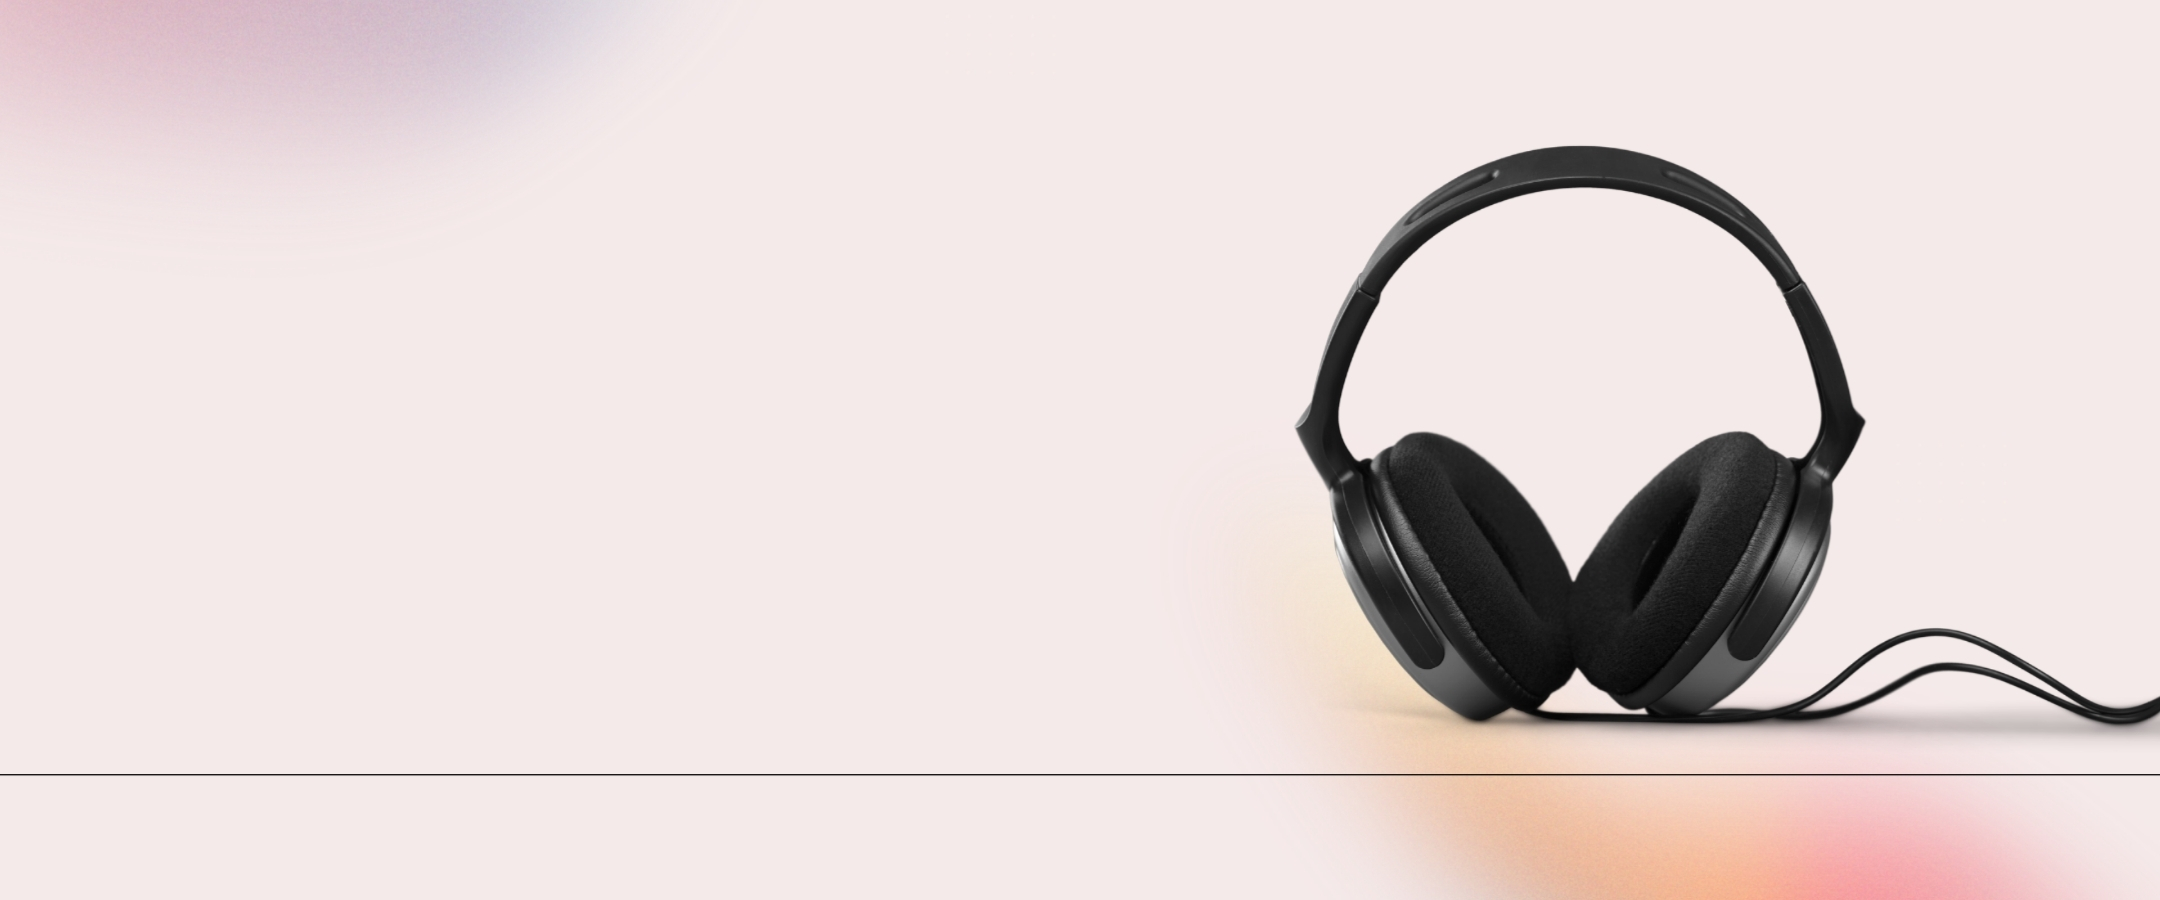
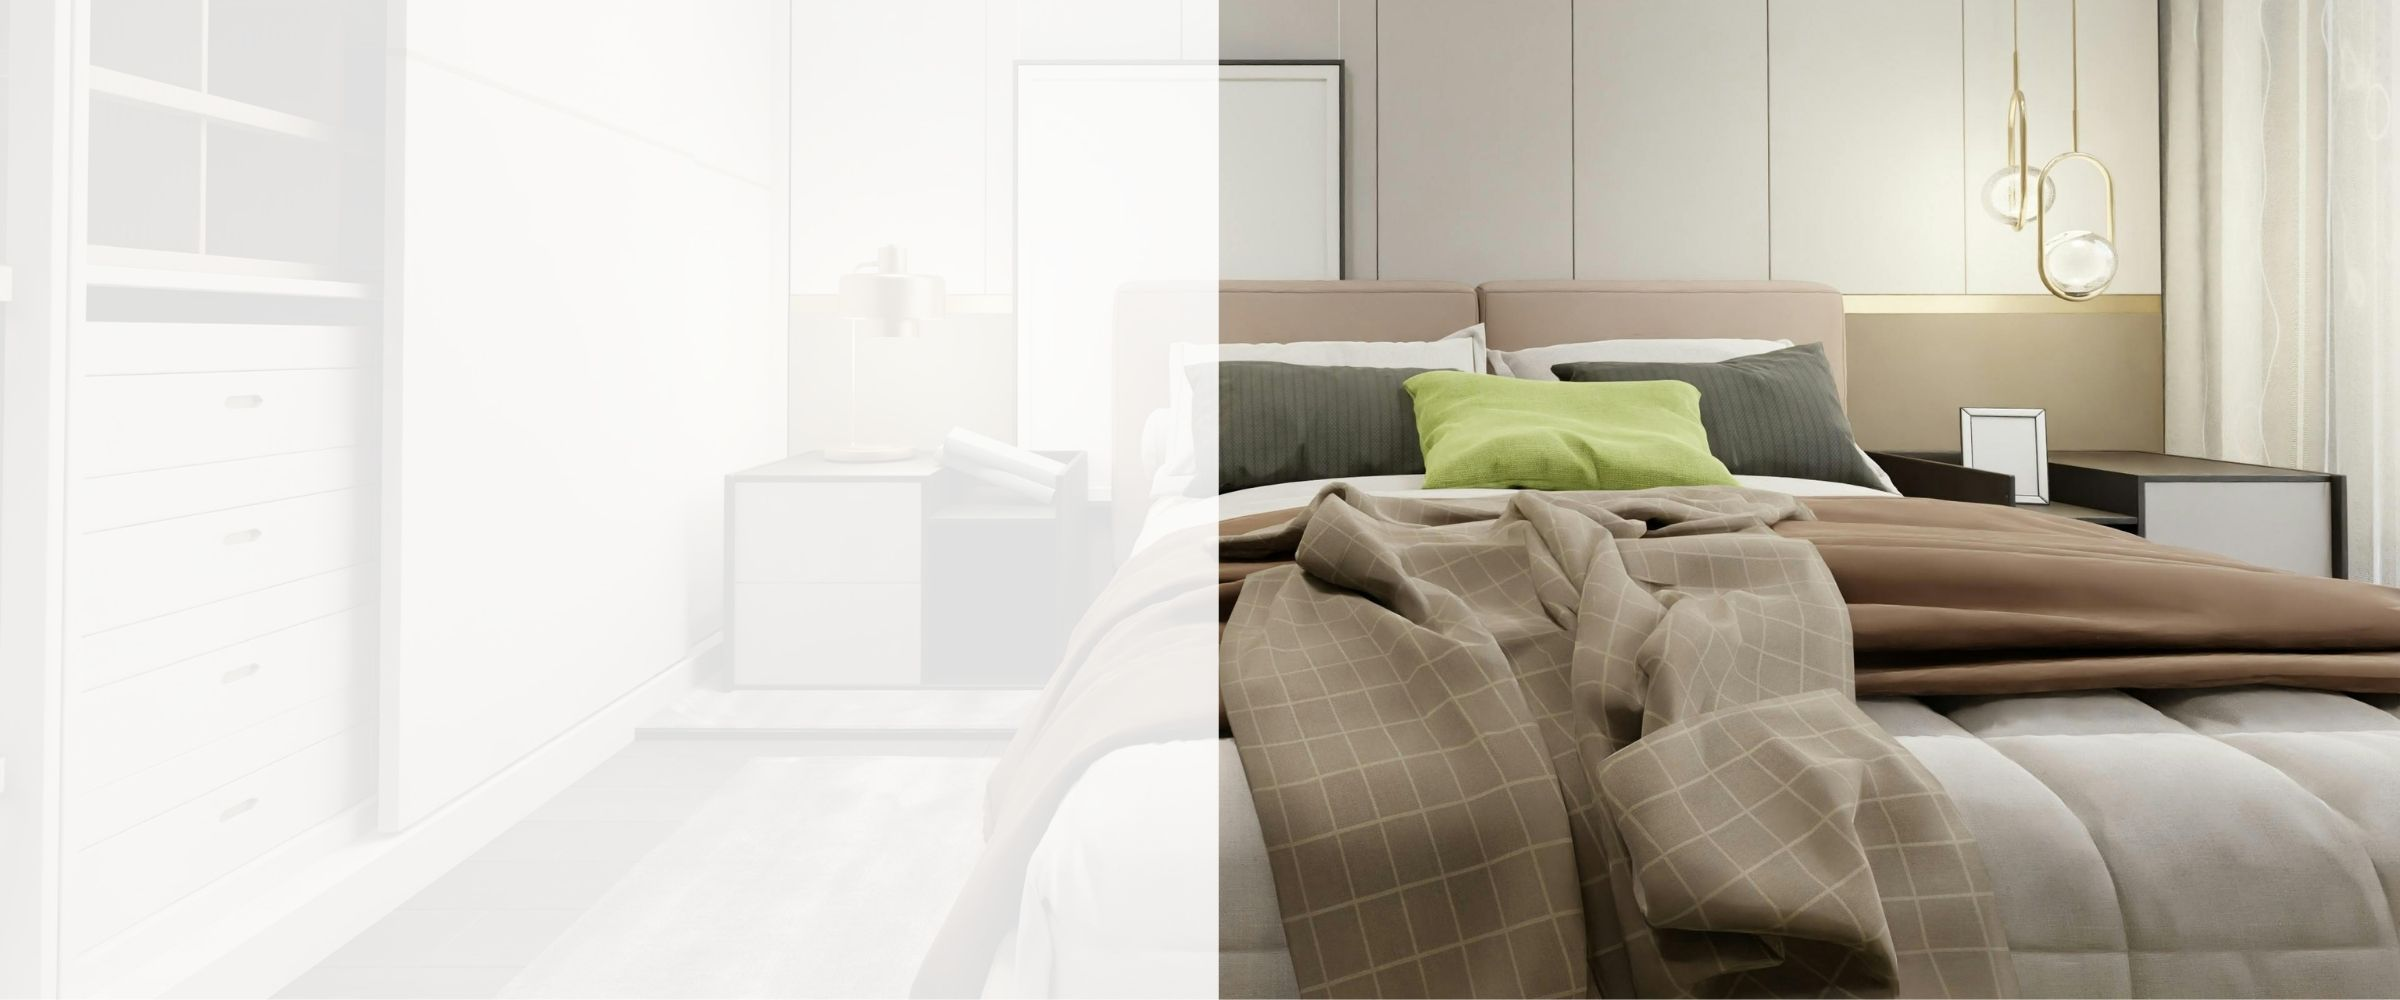
change database and connect aiven/dbeaver

diff --git a/Project/web-ban-hang/src/main/resources/templates/index.html b/Project/web-ban-hang/src/main/resources/templates/index.html
@@ -46,110 +46,10 @@
             <div class="slider-item">
               <img th:src="@{/images/banner-3.jpg}" alt="" class="banner-img" />
               <div class="banner-content">
-                <p class="banner-subtitle">Thiết bị công nghệ</p>
-                <h2 class="banner-title">Tiện ích cho cuộc sống hiện đại</h2>
-                <p class="banner-text">chỉ từ <b>349</b>.000đ</p>
+                <p class="banner-subtitle">Không gian thư thái</p>
+                <h2 class="banner-title">Nâng niu từng giấc ngủ</h2>
+                <p class="banner-text">chỉ từ <b>499</b>.000đ</p>
                 <a href="#" class="banner-btn">Khám Phá Ngay</a>
-              </div>
-            </div>
-          </div>
-        </div>
-      </div>
-
-      <div class="category">
-        <div class="container">
-          <div class="category-item-container scrolling">
-            <div class="category-items-wrapper">
-              <div class="category-item">
-                <div class="category-img-box">
-                  <img th:src="@{/images/icons/tinhdau.jpg}" alt="" />
-                </div>
-                <div class="category-content-box">
-                  <div class="category-content-flex">
-                    <h3 class="category-item-title">Sofa Phòng Khách</h3>
-                  </div>
-                  <a href="#" class="category-btn">Thoải mái & hiện đại</a>
-                </div>
-              </div>
-              <div class="category-item">
-                <div class="category-img-box">
-                  <img th:src="@{/images/icons/book.jpg}" alt="winter wear" />
-                </div>
-                <div class="category-content-box">
-                  <div class="category-content-flex">
-                    <h3 class="category-item-title">Bàn Trà</h3>
-                  </div>
-                  <a href="#" class="category-btn">Điểm nhấn tinh tế</a>
-                </div>
-              </div>
-              <div class="category-item">
-                <div class="category-img-box">
-                  <img th:src="@{/images/icons/sac.jpg}" alt="glasses & lens" />
-                </div>
-                <div class="category-content-box">
-                  <div class="category-content-flex">
-                    <h3 class="category-item-title">Ghế Thư Giãn</h3>
-                  </div>
-                  <a href="#" class="category-btn">Êm ái mỗi ngày</a>
-                </div>
-              </div>
-              <div class="category-item">
-                <div class="category-img-box">
-                  <img
-                    th:src="@{/images/icons/keyboard.jpg}"
-                    alt="shorts & jeans"
-                  />
-                </div>
-                <div class="category-content-box">
-                  <div class="category-content-flex">
-                    <h3 class="category-item-title">Kệ TV</h3>
-                  </div>
-                  <a href="#" class="category-btn">Gọn gàng & tiện nghi</a>
-                </div>
-              </div>
-              <div class="category-item">
-                <div class="category-img-box">
-                  <img th:src="@{/images/icons/kem.jpg}" alt="t-shirts" />
-                </div>
-                <div class="category-content-box">
-                  <div class="category-content-flex">
-                    <h3 class="category-item-title">Đèn Trang Trí</h3>
-                  </div>
-                  <a href="#" class="category-btn">Ánh sáng ấm cúng</a>
-                </div>
-              </div>
-              <div class="category-item">
-                <div class="category-img-box">
-                  <img th:src="@{/images/icons/op.jpg}" alt="jacket" />
-                </div>
-                <div class="category-content-box">
-                  <div class="category-content-flex">
-                    <h3 class="category-item-title">Gương Decor</h3>
-                  </div>
-                  <a href="#" class="category-btn">Mở rộng không gian</a>
-                </div>
-              </div>
-              <div class="category-item">
-                <div class="category-img-box">
-                  <img th:src="@{/images/icons/iem.jpg}" alt="watch" />
-                </div>
-                <div class="category-content-box">
-                  <div class="category-content-flex">
-                    <h3 class="category-item-title">Thảm Trải Sàn</h3>
-                  </div>
-                  <a href="#" class="category-btn">Mềm mại & sang trọng</a>
-                </div>
-              </div>
-              <div class="category-item">
-                <div class="category-img-box">
-                  <img th:src="@{/images/icons/loa.jpg}" alt="hat & caps" />
-                </div>
-                <div class="category-content-box">
-                  <div class="category-content-flex">
-                    <h3 class="category-item-title">Đồ Decor</h3>
-                  </div>
-                  <a href="#" class="category-btn">Điểm nhấn hoàn hảo</a>
-                </div>
               </div>
             </div>
           </div>
@@ -178,7 +78,7 @@
                         height="20"
                         class="menu-title-img"
                       />
-                      <p class="menu-title">Thời Trang</p>
+                      <p class="menu-title">Nội Thất Phòng Khách</p>
                     </div>
                     <div>
                       <ion-icon name="add-outline" class="add-icon"></ion-icon
@@ -199,7 +99,7 @@
                         width="20"
                         height="20"
                       />
-                      <p class="menu-title">Sức Khỏe & Làm Đẹp</p>
+                      <p class="menu-title">Nội Thất Phòng Ngủ</p>
                     </div>
                     <div>
                       <ion-icon name="add-outline" class="add-icon"></ion-icon
@@ -220,7 +120,7 @@
                         width="20"
                         height="20"
                       />
-                      <p class="menu-title">Gia Dụng & Nhà Cửa</p>
+                      <p class="menu-title">Không Gian Bếp</p>
                     </div>
                     <div>
                       <ion-icon name="add-outline" class="add-icon"></ion-icon
@@ -241,7 +141,7 @@
                         width="20"
                         height="20"
                       />
-                      <p class="menu-title">Công Nghệ & Thiết Bị Số</p>
+                      <p class="menu-title">Phụ Kiện Decor</p>
                     </div>
                     <div>
                       <ion-icon name="add-outline" class="add-icon"></ion-icon
@@ -262,7 +162,7 @@
                         width="20"
                         height="20"
                       />
-                      <p class="menu-title">Du Lịch & Dã Ngoại</p>
+                      <p class="menu-title">Tủ Kệ Trang Trí</p>
                     </div>
                     <div>
                       <ion-icon name="add-outline" class="add-icon"></ion-icon
@@ -283,7 +183,7 @@
                         width="20"
                         height="20"
                       />
-                      <p class="menu-title">Sách & Văn Phòng Phẩm</p>
+                      <p class="menu-title">Đèn Trang Trí</p>
                     </div>
                     <div>
                       <ion-icon name="add-outline" class="add-icon"></ion-icon
@@ -304,7 +204,7 @@
                         width="20"
                         height="20"
                       />
-                      <p class="menu-title">Đồ Chơi & Trẻ Em</p>
+                      <p class="menu-title">Thảm Trải Sàn</p>
                     </div>
                     <div>
                       <ion-icon name="add-outline" class="add-icon"></ion-icon

diff --git a/Project/web-ban-hang/src/main/resources/static/css/style.css b/Project/web-ban-hang/src/main/resources/static/css/style.css
@@ -844,6 +844,7 @@ body::-webkit-scrollbar-thumb:hover {
 
 .banner {
   margin: 30px 0;
+  margin-bottom: 50px;
 }
 
 .slider-container {